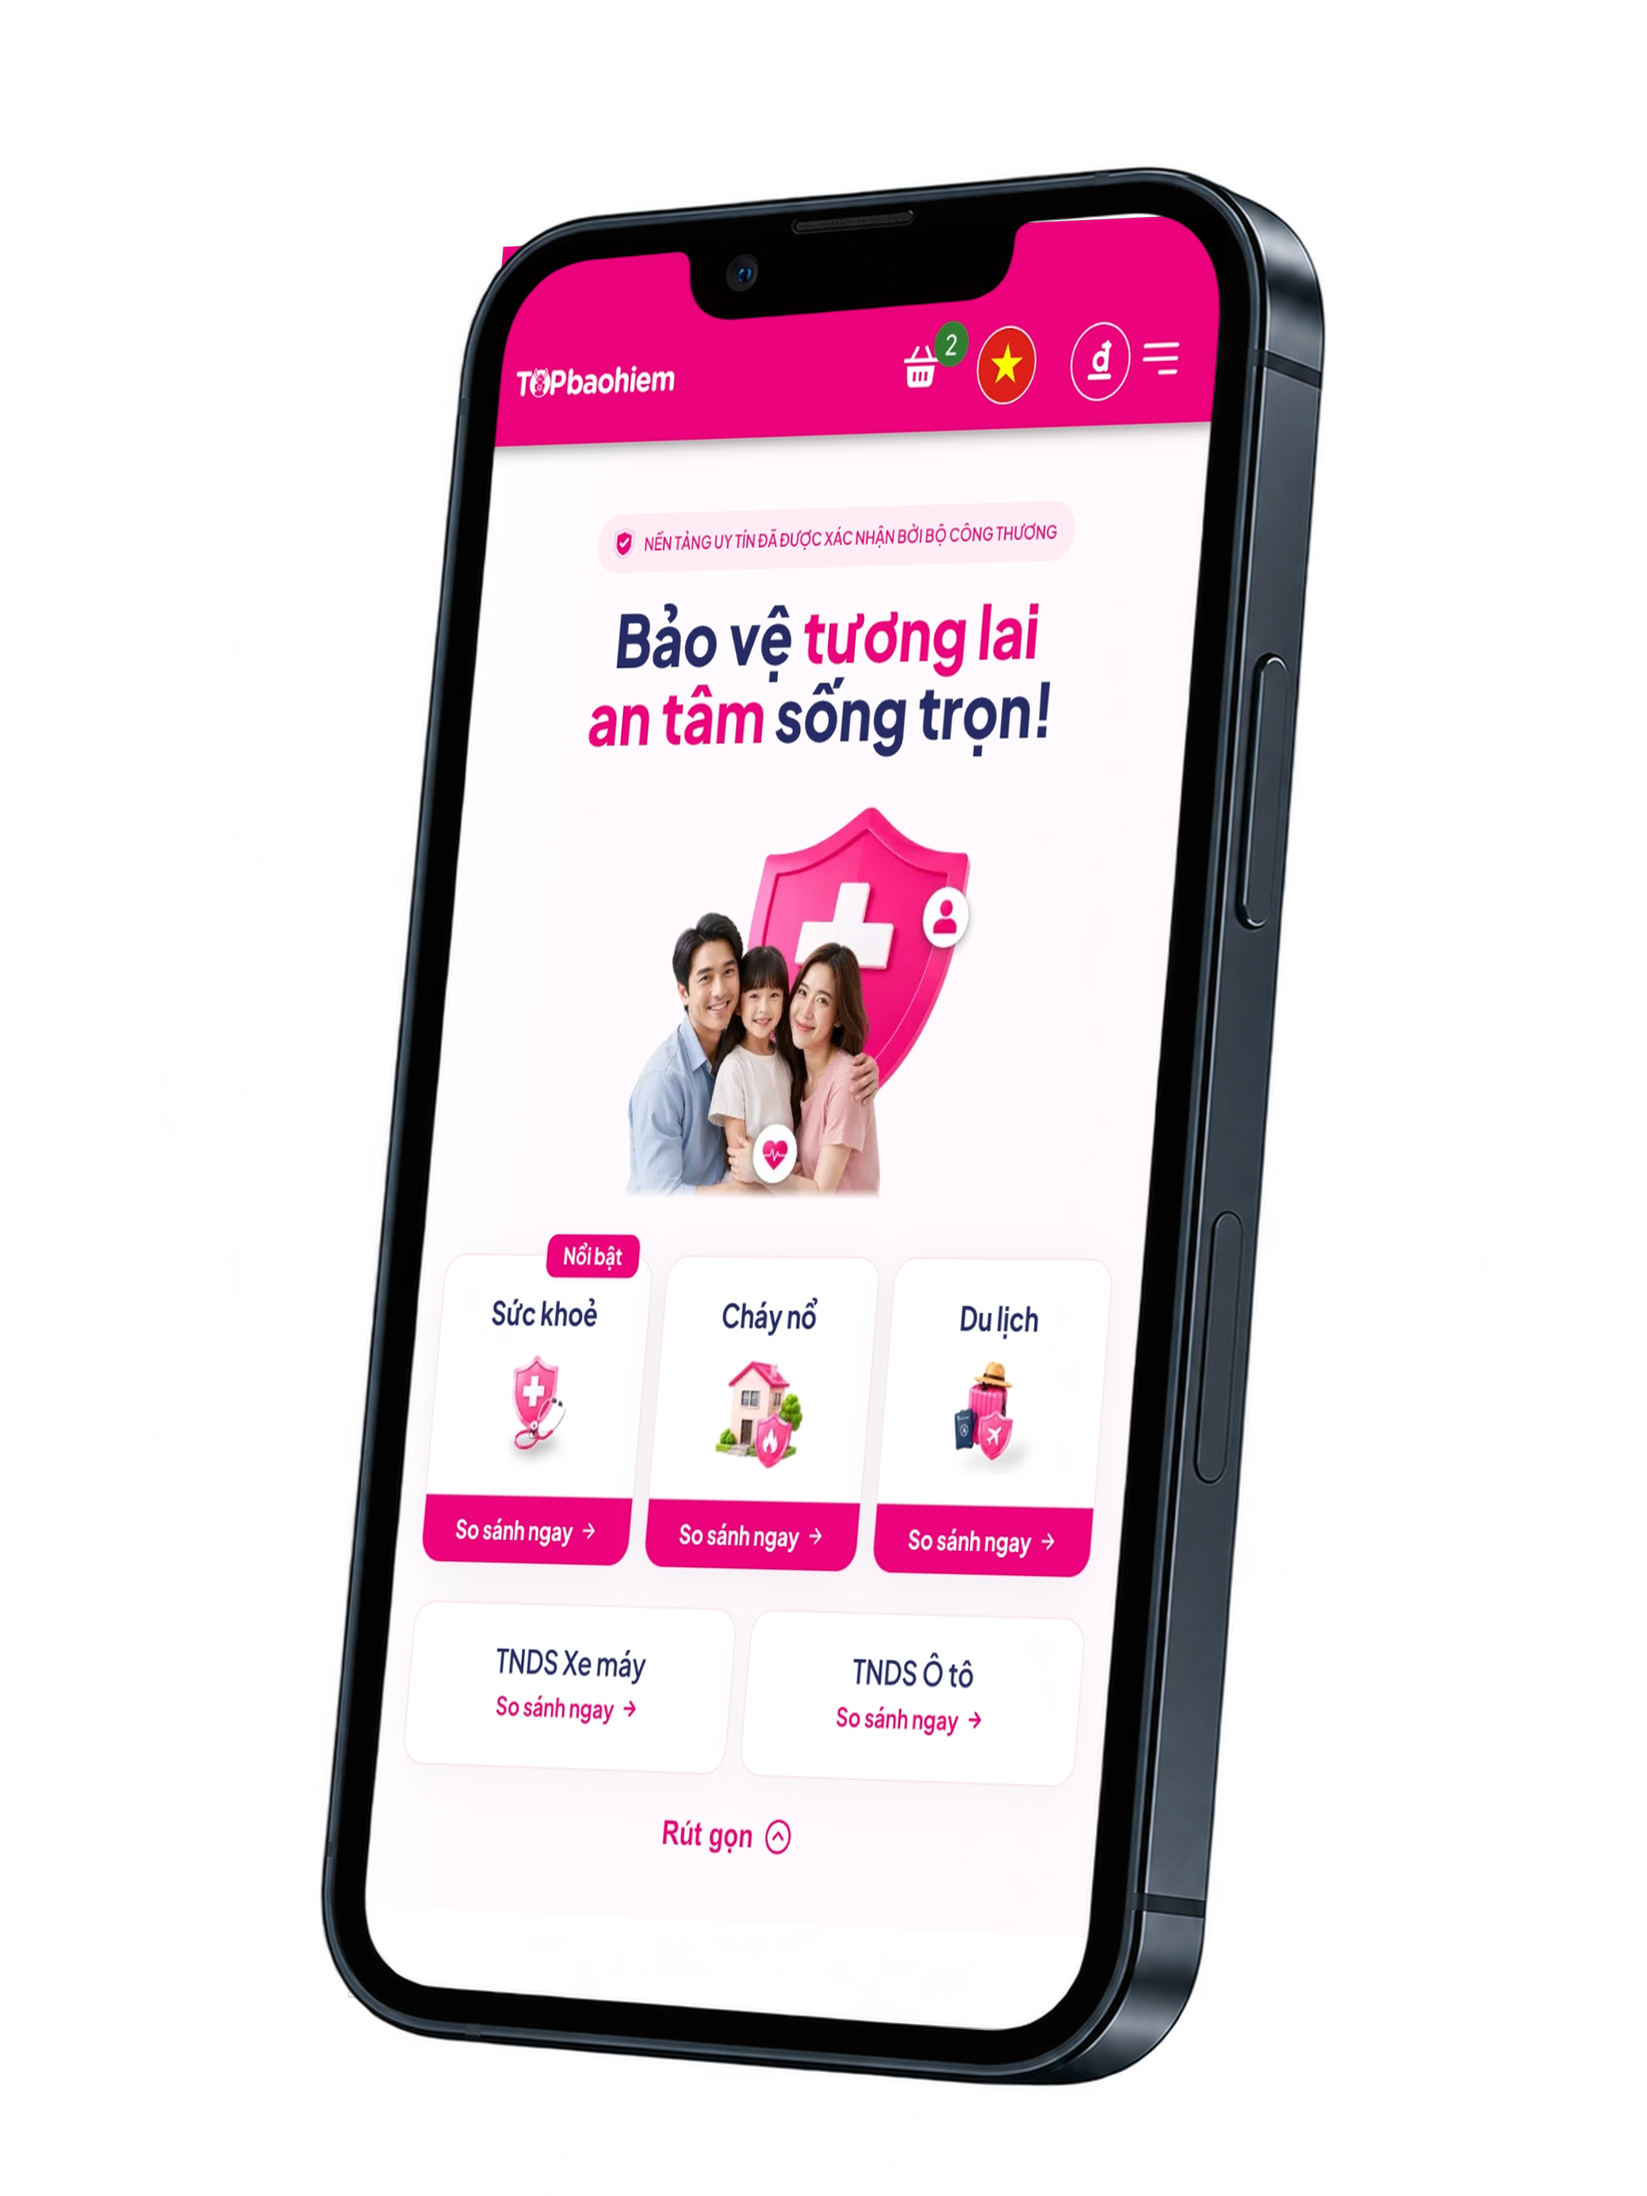
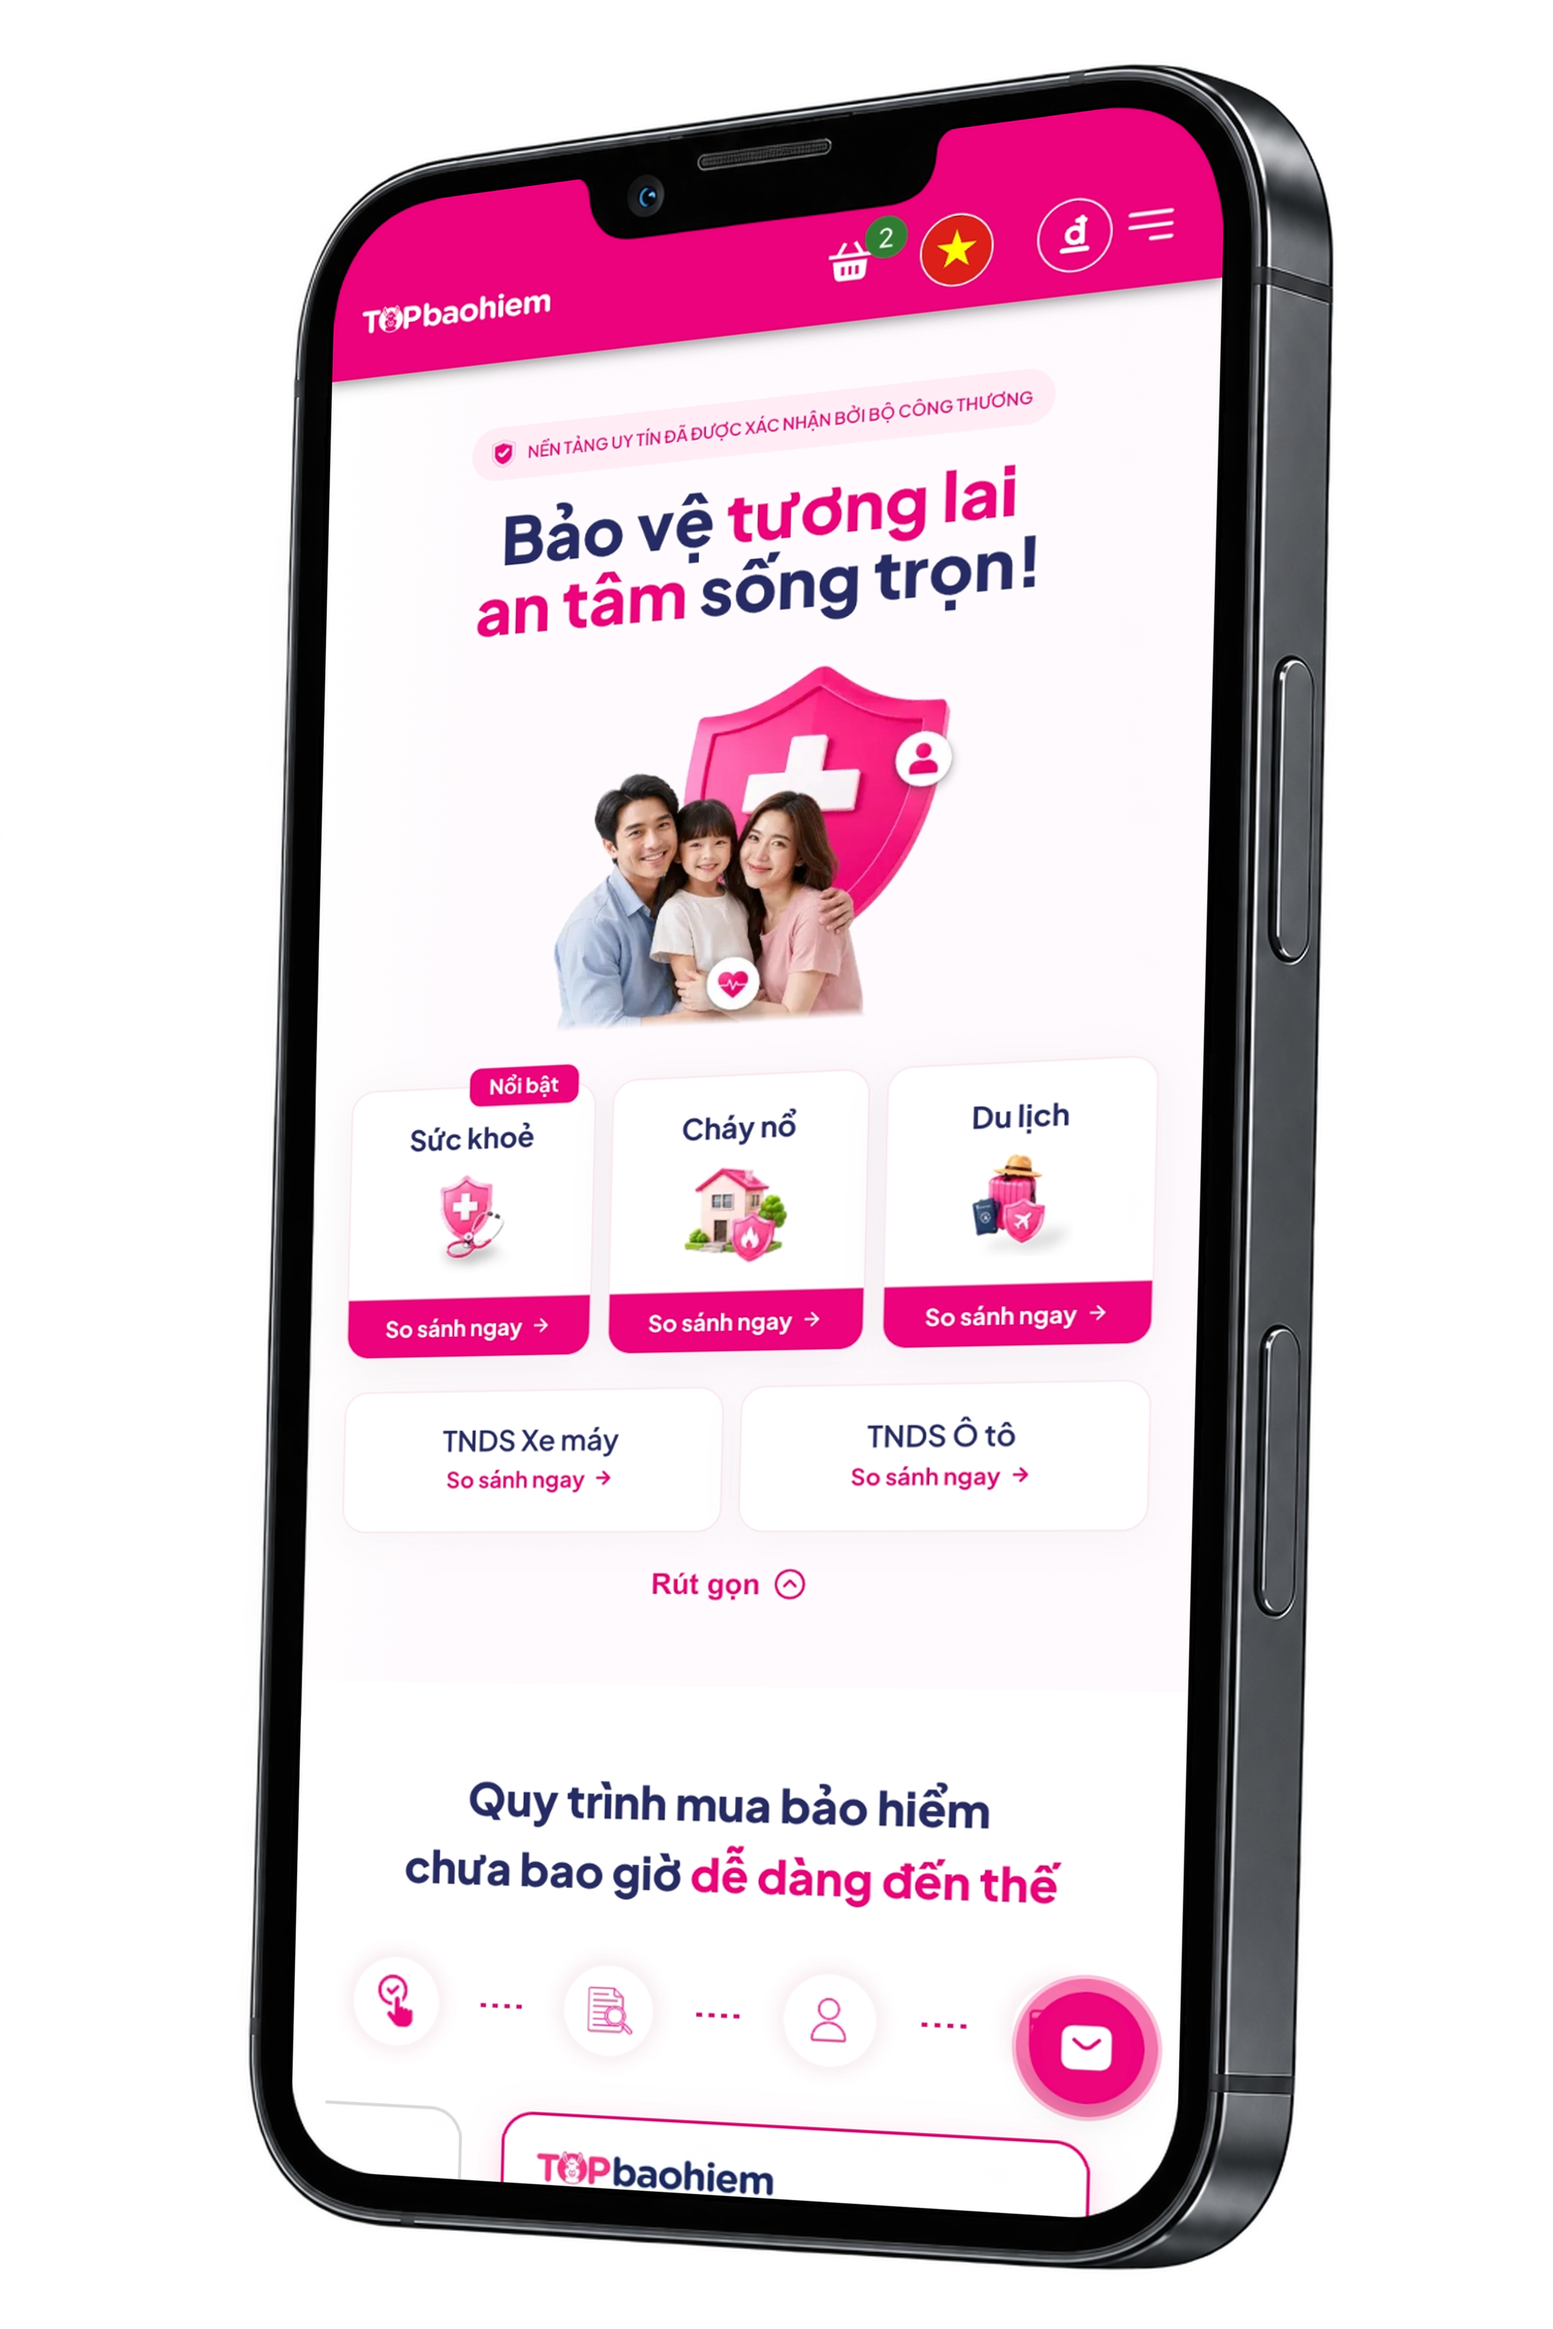
feat(scene2): nâng cấp màn hình iPhone 3D quang học khớp chuẩn khung iphone_3.png với 4x SSAA

diff --git a/src/components/scenes/v2/Scene2_TopBaoHiemShowcase.tsx b/src/components/scenes/v2/Scene2_TopBaoHiemShowcase.tsx
@@ -340,10 +340,10 @@ export const Scene2_TopBaoHiemShowcase: React.FC = () => {
             <div
                 style={{
                     position: 'absolute',
-                    top: 660,
-                    right: 200,
-                    width: 720,
-                    height: 960,
+                    top: 640,
+                    right: 210,
+                    width: 680,
+                    height: 1020,
                     transform: `translateY(${floatAltY}px)`,
                     zIndex: 8,
                 }}
@@ -377,7 +377,7 @@ export const Scene2_TopBaoHiemShowcase: React.FC = () => {
                     />
                 </div>
 
-                {/* 2. LAYER VỎ KHUNG IPHONE 3D (BÊN TRÊN): KHUNG MÁY NGUYÊN BẢN FIGMA */}
+                {/* 2. LAYER VỎ KHUNG IPHONE 3D (BÊN TRÊN): KHUNG MÁY NGUYÊN BẢN FIGMA IPHONE_3 */}
                 <div
                     style={{
                         position: 'absolute',
@@ -388,7 +388,7 @@ export const Scene2_TopBaoHiemShowcase: React.FC = () => {
                     }}
                 >
                     <Img
-                        src={staticFile('assets/elements/screen2/iphone.png')}
+                        src={staticFile('assets/elements/screen2/iphone_3.png')}
                         style={{ width: '100%', height: '100%', objectFit: 'contain' }}
                     />
                 </div>
